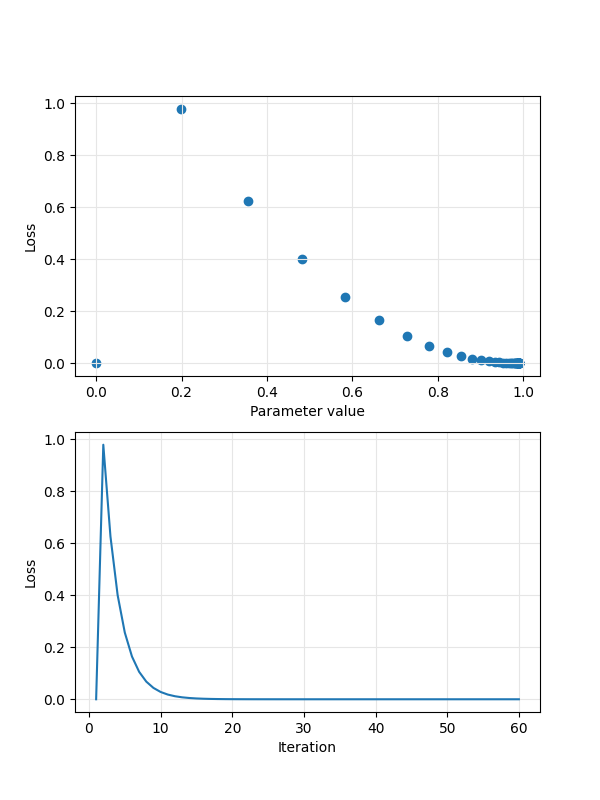
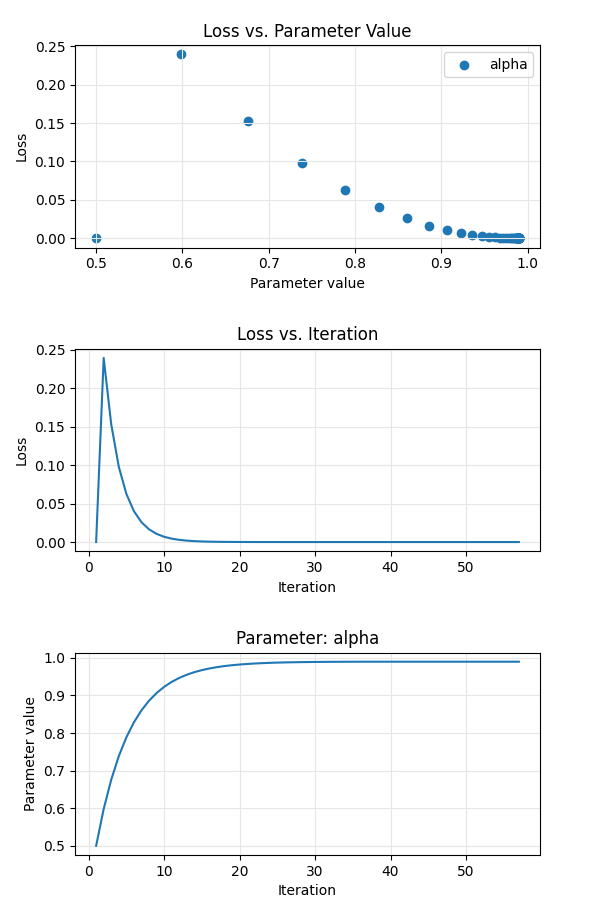
Report relative error.

diff --git a/architecture/autodiff/autodiffVerifier.cpp b/architecture/autodiff/autodiffVerifier.cpp
@@ -107,10 +107,10 @@ dsp *autodiffVerifier::createDSPCascade(dsp *input, dsp *process, int numParams)
 
 void autodiffVerifier::verify()
 {
-    std::map<std::string, std::vector<float>> errors;
+    std::map<std::string, std::vector<float>> deltas;
     for (int p = 0; p < fNumParams; ++p) {
         auto address{fUI->getParamAddress(p)};
-        errors.insert(std::make_pair(
+        deltas.insert(std::make_pair(
                 address.substr(address.find_last_of("/") + 1),
                 std::vector<float>()
         ));
@@ -123,38 +123,52 @@ void autodiffVerifier::verify()
     auto undiffedIndex{fNumParams};
     
     for (auto i{1}; i <= kNumIterations; ++i) {
+        if ((i - 1) % 20 == 0) {
+            std::cout << std::string(80, '-') << "\n"
+                      << std::setw(5) << "Iter"
+                      << std::setw(15) << "Param"
+                      << std::setw(15) << "Autodiff"
+                      << std::setw(15) << "Finite diff"
+                      << std::setw(15) << "|delta|"
+                      << std::setw(15) << "Rel. error"
+                      << "\n" << std::string(80, '-') << "\n";
+        }
+        
         fAudio->render();
         auto out{fAudio->getOutput()};
         
         for (int frame = 0; frame < fAudio->getBufferSize(); frame++) {
             std::cout << std::setw(5) << i;
             auto p{0};
-            for (auto &e: errors) {
+            for (auto &d: deltas) {
                 auto autodiff{out[autodiffIndex + p][frame]};
                 auto finiteDiff{(out[p][frame] - out[undiffedIndex][frame]) / kEpsilon};
-                auto error{fabsf(autodiff - finiteDiff)};
-                e.second.push_back(error);
+                auto delta{fabsf(autodiff - finiteDiff)};
+                auto relError{iszero(autodiff) ? 0.f : fabsf(100.f * delta / autodiff)};
+                d.second.push_back(delta);
                 
-                std::cout << std::setw(p == 0 ? 10 : 15) << e.first
+                std::cout << std::setw(p == 0 ? 15 : 20) << d.first
                           << std::setprecision(10) << std::fixed
-                          << std::setw(15) << "autodiff:" << std::setw(15) << autodiff
-                          << std::setw(15) << "finite diff:" << std::setw(15) << finiteDiff
-                          << std::setprecision(3) << (error < 1e-3 ? std::scientific : std::fixed)
-                          << std::setw(10) << "|delta|:" << std::setw(12) << error << "\n";
+                          << std::setw(15) << autodiff
+                          << std::setw(15) << finiteDiff
+                          << std::setprecision(3) << (delta < 1e-3 ? std::scientific : std::fixed)
+                          << std::setw(15) << delta
+                          << std::setprecision(3) << std::fixed
+                          << std::setw(13) << relError << " %\n";
                 
                 ++p;
             }
         }
     }
     
-    for (auto &errs: errors) {
-        auto mean{std::accumulate(errs.second.begin(), errs.second.end(), 0.f) / kNumIterations};
+    for (auto &dd: deltas) {
+        auto mean{std::accumulate(dd.second.begin(), dd.second.end(), 0.f) / kNumIterations};
         auto variance{0.f};
-        for (auto &e: errs.second) {
-            variance += powf(e - mean, 2);
+        for (auto &d: dd.second) {
+            variance += powf(d - mean, 2);
         }
         auto deviation{sqrtf(variance / (kNumIterations - 1))};
-        std::cout << "\nParameter: " << errs.first << "\n" << std::string(31, '=') << "\n"
+        std::cout << "\nParameter: " << dd.first << "\n" << std::string(31, '=') << "\n"
                   << std::setw(20) << "Mean delta:"
                   << (mean < 1e-3 ? std::scientific : std::fixed) << std::setw(11) << mean
                   << "\n"
